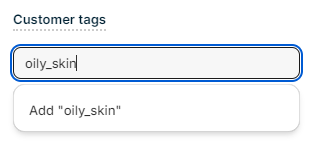
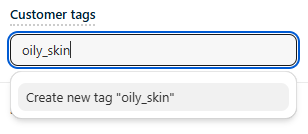
docs: update customer tags documentation with improved instructions for adding tags, clarify settings process, and add new images for better user guidance

Changed region(s): [[0.0, 0.0597, 0.9935, 0.9552]]

diff --git a/docs/reference/quiz-builder/customer-tags.md b/docs/reference/quiz-builder/customer-tags.md
@@ -18,17 +18,24 @@
 
 === "Shopify V2"
 
+    
     You can create custom tags and link them to choices in the quiz. Customer tags are useful for segmenting customers and email marketing.
 
-    To add customer tags to choices, go to [Questions](#quiz-builder---questions), select a  multiple-choice question, then a choice and open the [Choice Settings](#choice-settings).
+    To add customer tags to choices, go to [Questions](#quiz-builder---questions), select a  multiple-choice question, then a choice and open the [`Choice Settings`](questions/#choice-settings).
+
+    ![manual_shopifyv2_openchoicesettings](/images/manual_shopifyv2_openchoicesettings.png)
+
+    Click on a choice to open the [`Choice Settings`](questions/#choice-settings).
 
     ![manual_shopifyV2_quizbuilder_quizbuilder_customertags](/images/manual_shopifyV2_quizbuilder_quizbuilder_customertags.png)
 
-    Click `Search tags` to pick a tag to link to this choice or start typing the name to create a new tag.
+    Click `Search or create tags` to pick a tag to link to this choice or start typing the name to create a new tag.
 
     ![manual_shopifyV2_quizbuilder_quizbuilder_customertags_addtag](/images/manual_shopifyV2_quizbuilder_quizbuilder_customertags_addtag.png)
 
-    Confirm with `Add tag`.
+    Confirm by saving the changes with the top `Save` button.
+
+    ![manual_shopifyV2_quizbuilder_quizbuilder_customertags_addtag_savechanges](/images/manual_shopifyV2_quizbuilder_quizbuilder_customertags_addtag_savechanges.png)
 
     All the tags you create will be visible at the bottom in grey.
 
